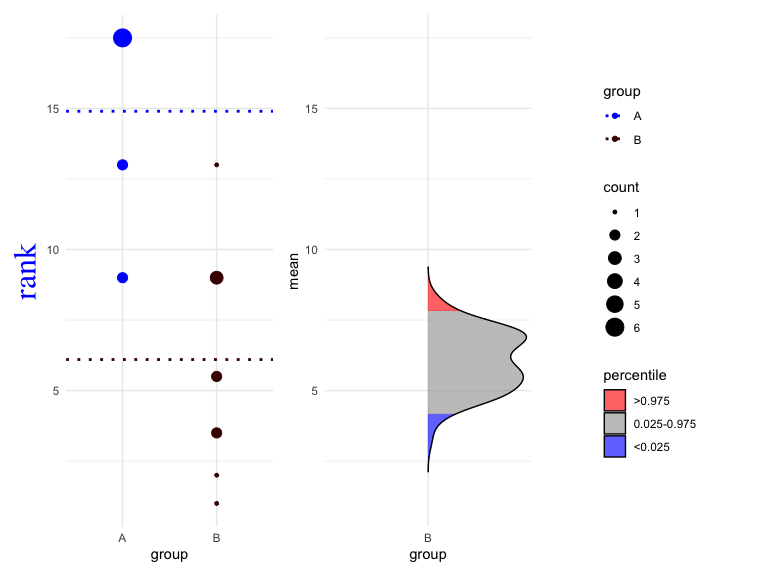
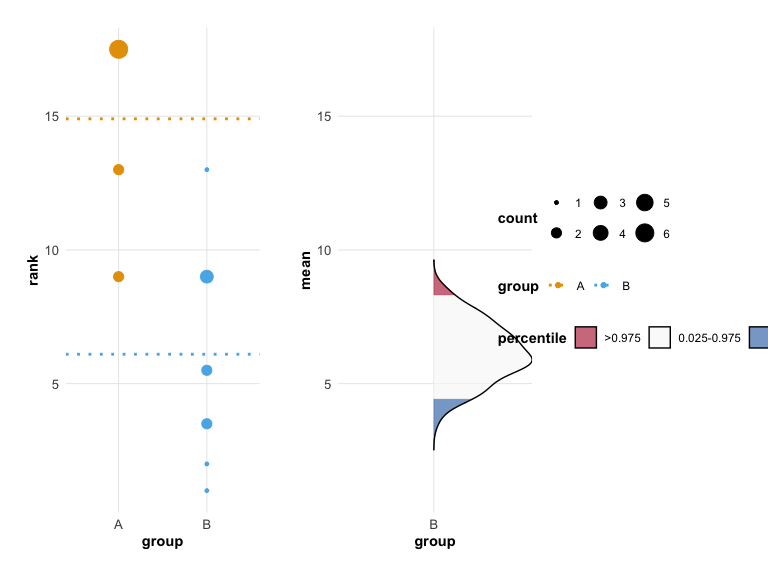
Update README and vignette with built-in themes documentation
- Add "Built-in Themes and Color Palettes" section showing:
  - Theme options (classic, modern)
  - Color palette options (default, okabe_ito, viridis)
  - Combined theme and colors example
  - Direct palette usage with besthr_palette()
- Render README.md with new example plots
- Update vignette with matching documentation

diff --git a/Readme.md b/Readme.md
@@ -1,7 +1,7 @@
 besthr - Generating Bootstrap Estimation Distributions of HR Data
 ================
 Dan MacLean
-06 October, 2022
+16 January, 2026
 
 <!-- badges: start -->
 [![DOI](https://zenodo.org/badge/DOI/10.5281/zenodo.3374507.svg)](https://doi.org/10.5281/zenodo.3374507)
@@ -86,7 +86,7 @@ hr_est_1
     ## Unpaired mean rank difference of A (14.9, n=10) minus B (6.1, n=10)
     ##  8.8
     ## Confidence Intervals (0.025, 0.975)
-    ##  4.16625, 7.82625
+    ##  4.42375, 8.305
     ## 
     ## 100 bootstrap resamples.
 
@@ -94,7 +94,7 @@ hr_est_1
 plot(hr_est_1)
 ```
 
-    ## Picking joint bandwidth of 0.376
+    ## Picking joint bandwidth of 0.374
 
 ![](Readme_files/figure-gfm/unnamed-chunk-2-1.png)<!-- -->
 
@@ -121,7 +121,7 @@ estimate(hr_data_1, score, group, control = "A", nits = 1000, low = 0.4, high = 
   plot()
 ```
 
-    ## Picking joint bandwidth of 0.261
+    ## Picking joint bandwidth of 0.265
 
 ![](Readme_files/figure-gfm/unnamed-chunk-4-1.png)<!-- -->
 
@@ -187,7 +187,7 @@ hr_est_3
 plot(hr_est_3)
 ```
 
-    ## Picking joint bandwidth of 0.163
+    ## Picking joint bandwidth of 0.168
 
 ![](Readme_files/figure-gfm/unnamed-chunk-5-1.png)<!-- -->
 
@@ -199,13 +199,107 @@ those plotted you can use an extra plot option `which`. Set `which` to
 without ranking. This will only work if you have technical replicates.
 
 ``` r
-hr_est_3 %>% 
+hr_est_3 %>%
   plot(which = "just_data")
 ```
 
-    ## Picking joint bandwidth of 0.163
+    ## Picking joint bandwidth of 0.168
 
 ![](Readme_files/figure-gfm/unnamed-chunk-6-1.png)<!-- -->
+
+## Built-in Themes and Color Palettes
+
+besthr includes built-in themes and colorblind-safe color palettes that
+can be applied directly through the `plot()` function.
+
+### Theme Options
+
+Use the `theme` parameter to change the overall visual style:
+
+- `"classic"` (default) - The original besthr appearance
+- `"modern"` - A cleaner, contemporary style with refined typography and
+  grid
+
+``` r
+# Classic theme (default - same as before)
+plot(hr_est_1, theme = "classic")
+```
+
+    ## Picking joint bandwidth of 0.374
+
+![](Readme_files/figure-gfm/unnamed-chunk-7-1.png)<!-- -->
+
+``` r
+# Modern theme
+plot(hr_est_1, theme = "modern")
+```
+
+    ## Picking joint bandwidth of 0.374
+
+![](Readme_files/figure-gfm/unnamed-chunk-7-2.png)<!-- -->
+
+### Color Palette Options
+
+Use the `colors` parameter to change the color palette:
+
+- `"default"` - Original besthr colors
+- `"okabe_ito"` - Colorblind-safe Okabe-Ito palette
+- `"viridis"` - Viridis color scale
+
+``` r
+# Colorblind-safe palette
+plot(hr_est_1, colors = "okabe_ito")
+```
+
+    ## Picking joint bandwidth of 0.374
+
+![](Readme_files/figure-gfm/unnamed-chunk-8-1.png)<!-- -->
+
+``` r
+# Viridis palette
+plot(hr_est_1, colors = "viridis")
+```
+
+    ## Picking joint bandwidth of 0.374
+
+![](Readme_files/figure-gfm/unnamed-chunk-8-2.png)<!-- -->
+
+### Combining Theme and Colors
+
+You can combine both options for a fully customized look:
+
+``` r
+# Modern theme with colorblind-safe colors
+plot(hr_est_1, theme = "modern", colors = "okabe_ito")
+```
+
+    ## Picking joint bandwidth of 0.374
+
+![](Readme_files/figure-gfm/unnamed-chunk-9-1.png)<!-- -->
+
+### Using besthr Palettes Directly
+
+The color palettes can also be used directly in your own ggplot2 code:
+
+``` r
+# Get palette colors
+besthr_palette("okabe_ito", n = 4)
+```
+
+    ## [1] "#E69F00" "#56B4E9" "#009E73" "#F0E442"
+
+``` r
+# Available palettes
+besthr_palette("default", n = 3)
+```
+
+    ## [1] "#F8766D" "#00BA38" "#619CFF"
+
+``` r
+besthr_palette("viridis", n = 3)
+```
+
+    ## [1] "#440154FF" "#46337EFF" "#365C8DFF"
 
 ## Styling Plots
 
@@ -230,17 +324,17 @@ p + plot_annotation(title = 'A stylish besthr plot',
                     caption = 'Though this example is not meaningful')
 ```
 
-    ## Picking joint bandwidth of 0.376
+    ## Picking joint bandwidth of 0.374
 
-![](Readme_files/figure-gfm/unnamed-chunk-7-1.png)<!-- -->
+![](Readme_files/figure-gfm/unnamed-chunk-11-1.png)<!-- -->
 
 ``` r
 p
 ```
 
-    ## Picking joint bandwidth of 0.376
+    ## Picking joint bandwidth of 0.374
 
-![](Readme_files/figure-gfm/unnamed-chunk-7-2.png)<!-- -->
+![](Readme_files/figure-gfm/unnamed-chunk-11-2.png)<!-- -->
 
 ### Targetting a subplot to make theme changes
 
@@ -254,13 +348,18 @@ dot plot
 
 ``` r
 library(ggplot2)
+```
+
+    ## Warning: package 'ggplot2' was built under R version 4.5.2
+
+``` r
 p[[1]] <- p[[1]] + theme(axis.title.y = element_text(family = "Times", colour="blue", size=24))
 p
 ```
 
-    ## Picking joint bandwidth of 0.376
+    ## Picking joint bandwidth of 0.374
 
-![](Readme_files/figure-gfm/unnamed-chunk-8-1.png)<!-- -->
+![](Readme_files/figure-gfm/unnamed-chunk-12-1.png)<!-- -->
 
 ### Changing the scale colours of a subplot
 
@@ -277,39 +376,39 @@ p[[1]] <- p[[1]] + scale_colour_manual(values = c("blue", "#440000"))
 p
 ```
 
-    ## Picking joint bandwidth of 0.376
+    ## Picking joint bandwidth of 0.374
 
-![](Readme_files/figure-gfm/unnamed-chunk-9-1.png)<!-- -->
+![](Readme_files/figure-gfm/unnamed-chunk-13-1.png)<!-- -->
 
 ``` r
 p[[1]] <- p[[1]] + scale_colour_viridis_d()
 ```
 
-    ## Scale for 'colour' is already present. Adding another scale for 'colour',
-    ## which will replace the existing scale.
+    ## Scale for colour is already present.
+    ## Adding another scale for colour, which will replace the existing scale.
 
 ``` r
 p
 ```
 
-    ## Picking joint bandwidth of 0.376
+    ## Picking joint bandwidth of 0.374
 
-![](Readme_files/figure-gfm/unnamed-chunk-9-2.png)<!-- -->
+![](Readme_files/figure-gfm/unnamed-chunk-13-2.png)<!-- -->
 
 ``` r
 p[[1]] <- p[[1]] + scale_colour_brewer(type="qual", palette="Accent")
 ```
 
-    ## Scale for 'colour' is already present. Adding another scale for 'colour',
-    ## which will replace the existing scale.
+    ## Scale for colour is already present.
+    ## Adding another scale for colour, which will replace the existing scale.
 
 ``` r
 p
 ```
 
-    ## Picking joint bandwidth of 0.376
+    ## Picking joint bandwidth of 0.374
 
-![](Readme_files/figure-gfm/unnamed-chunk-9-3.png)<!-- -->
+![](Readme_files/figure-gfm/unnamed-chunk-13-3.png)<!-- -->
 
 For the percentile plot, use only `scale_colour_manual()` with specified
 colours. Annoyingly, this rewrites the other values associated with the
@@ -323,13 +422,13 @@ p[[2]] <- p[[2]] + scale_fill_manual(
   )
 ```
 
-    ## Scale for 'fill' is already present. Adding another scale for 'fill', which
-    ## will replace the existing scale.
+    ## Scale for fill is already present.
+    ## Adding another scale for fill, which will replace the existing scale.
 
 ``` r
 p
 ```
 
-    ## Picking joint bandwidth of 0.376
+    ## Picking joint bandwidth of 0.374
 
-![](Readme_files/figure-gfm/unnamed-chunk-10-1.png)<!-- -->
+![](Readme_files/figure-gfm/unnamed-chunk-14-1.png)<!-- -->
